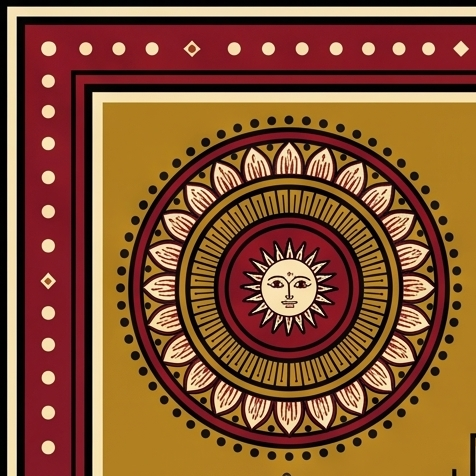
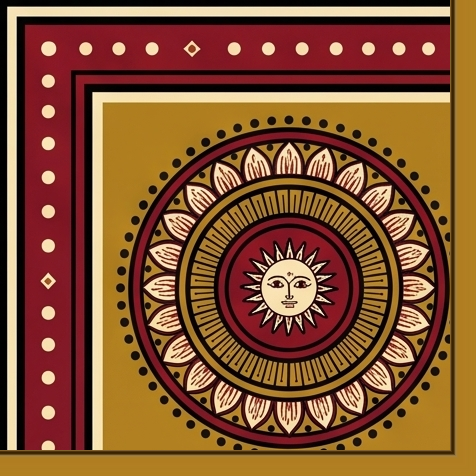
style: standardize stepped-out corner square medallions across all sections

Changed region(s): [[0.0, 0.0, 1.0, 1.0]]

diff --git a/src/components/WeddingHeroSection.jsx b/src/components/WeddingHeroSection.jsx
@@ -577,7 +577,7 @@ export default function WeddingHeroSection() {
         {/* Top Strip */}
         <div
           ref={oldTopRef}
-          className="absolute top-0 left-0 right-0 h-[20px] sm:h-[24px] md:h-[28px] will-change-transform"
+          className="absolute top-0 left-0 right-0 h-[22px] sm:h-[26px] md:h-[30px] will-change-transform"
         >
           <div
             className="w-full h-full"
@@ -592,7 +592,7 @@ export default function WeddingHeroSection() {
         {/* Bottom Strip */}
         <div
           ref={oldBottomRef}
-          className="absolute bottom-0 left-0 right-0 h-[20px] sm:h-[24px] md:h-[28px] will-change-transform"
+          className="absolute bottom-0 left-0 right-0 h-[22px] sm:h-[26px] md:h-[30px] will-change-transform"
         >
           <div
             className="w-full h-full scale-y-[-1]"
@@ -607,7 +607,7 @@ export default function WeddingHeroSection() {
         {/* Left Strip */}
         <div
           ref={oldLeftRef}
-          className="absolute top-0 bottom-0 left-0 w-[20px] sm:w-[24px] md:w-[28px] will-change-transform"
+          className="absolute top-0 bottom-0 left-0 w-[22px] sm:w-[26px] md:w-[30px] will-change-transform"
         >
           <div
             className="w-full h-full"
@@ -622,7 +622,7 @@ export default function WeddingHeroSection() {
         {/* Right Strip */}
         <div
           ref={oldRightRef}
-          className="absolute top-0 bottom-0 right-0 w-[20px] sm:w-[24px] md:w-[28px] will-change-transform"
+          className="absolute top-0 bottom-0 right-0 w-[22px] sm:w-[26px] md:w-[30px] will-change-transform"
         >
           <div
             className="w-full h-full scale-x-[-1]"
@@ -637,7 +637,7 @@ export default function WeddingHeroSection() {
         {/* 4 Corner Lotus Blocks */}
         <div
           ref={oldCornerTLRef}
-          className="absolute top-0 left-0 w-[20px] sm:w-[24px] md:w-[28px] h-[20px] sm:h-[24px] md:h-[28px] z-35 will-change-transform"
+          className="absolute top-0 left-0 w-[24px] sm:w-[28px] md:w-[34px] h-[24px] sm:h-[28px] md:h-[34px] z-35 will-change-transform"
         >
           <img
             src="/assets/madhubani/corner-piece.png"
@@ -647,7 +647,7 @@ export default function WeddingHeroSection() {
         </div>
         <div
           ref={oldCornerTRRef}
-          className="absolute top-0 right-0 w-[20px] sm:w-[24px] md:w-[28px] h-[20px] sm:h-[24px] md:h-[28px] z-35 will-change-transform"
+          className="absolute top-0 right-0 w-[24px] sm:w-[28px] md:w-[34px] h-[24px] sm:h-[28px] md:h-[34px] z-35 will-change-transform"
         >
           <img
             src="/assets/madhubani/corner-piece.png"
@@ -657,7 +657,7 @@ export default function WeddingHeroSection() {
         </div>
         <div
           ref={oldCornerBLRef}
-          className="absolute bottom-0 left-0 w-[20px] sm:w-[24px] md:w-[28px] h-[20px] sm:h-[24px] md:h-[28px] z-35 will-change-transform"
+          className="absolute bottom-0 left-0 w-[24px] sm:w-[28px] md:w-[34px] h-[24px] sm:h-[28px] md:h-[34px] z-35 will-change-transform"
         >
           <img
             src="/assets/madhubani/corner-piece.png"
@@ -667,7 +667,7 @@ export default function WeddingHeroSection() {
         </div>
         <div
           ref={oldCornerBRRef}
-          className="absolute bottom-0 right-0 w-[20px] sm:w-[24px] md:w-[28px] h-[20px] sm:h-[24px] md:h-[28px] z-35 will-change-transform"
+          className="absolute bottom-0 right-0 w-[24px] sm:w-[28px] md:w-[34px] h-[24px] sm:h-[28px] md:h-[34px] z-35 will-change-transform"
         >
           <img
             src="/assets/madhubani/corner-piece.png"
@@ -1490,7 +1490,7 @@ export default function WeddingHeroSection() {
         {/* 4 Corner Medallions */}
         <div
           ref={emeraldCornerTLRef}
-          className="absolute top-0 left-0 w-[22px] sm:w-[26px] md:w-[30px] h-[22px] sm:h-[26px] md:h-[30px] z-50 will-change-transform"
+          className="absolute top-0 left-0 w-[24px] sm:w-[28px] md:w-[34px] h-[24px] sm:h-[28px] md:h-[34px] z-50 will-change-transform"
           style={{ transform: 'translate3d(-135%, -135%, 0)' }}
         >
           <img
@@ -1501,7 +1501,7 @@ export default function WeddingHeroSection() {
         </div>
         <div
           ref={emeraldCornerTRRef}
-          className="absolute top-0 right-0 w-[22px] sm:w-[26px] md:w-[30px] h-[22px] sm:h-[26px] md:h-[30px] z-50 will-change-transform"
+          className="absolute top-0 right-0 w-[24px] sm:w-[28px] md:w-[34px] h-[24px] sm:h-[28px] md:h-[34px] z-50 will-change-transform"
           style={{ transform: 'translate3d(135%, -135%, 0)' }}
         >
           <img
@@ -1512,7 +1512,7 @@ export default function WeddingHeroSection() {
         </div>
         <div
           ref={emeraldCornerBLRef}
-          className="absolute bottom-0 left-0 w-[22px] sm:w-[26px] md:w-[30px] h-[22px] sm:h-[26px] md:h-[30px] z-50 will-change-transform"
+          className="absolute bottom-0 left-0 w-[24px] sm:w-[28px] md:w-[34px] h-[24px] sm:h-[28px] md:h-[34px] z-50 will-change-transform"
           style={{ transform: 'translate3d(-135%, 135%, 0)' }}
         >
           <img
@@ -1523,7 +1523,7 @@ export default function WeddingHeroSection() {
         </div>
         <div
           ref={emeraldCornerBRRef}
-          className="absolute bottom-0 right-0 w-[22px] sm:w-[26px] md:w-[30px] h-[22px] sm:h-[26px] md:h-[30px] z-50 will-change-transform"
+          className="absolute bottom-0 right-0 w-[24px] sm:w-[28px] md:w-[34px] h-[24px] sm:h-[28px] md:h-[34px] z-50 will-change-transform"
           style={{ transform: 'translate3d(135%, 135%, 0)' }}
         >
           <img

diff --git a/src/components/MainEvents.jsx b/src/components/MainEvents.jsx
@@ -192,7 +192,7 @@ export default function MainEvents() {
       {/* 4 Corner Sun Medallions */}
       <div
         ref={cornerTLRef}
-        className="absolute top-0 left-0 w-[22px] sm:w-[26px] md:w-[30px] h-[22px] sm:h-[26px] md:h-[30px] z-40 pointer-events-none will-change-transform"
+        className="absolute top-0 left-0 w-[24px] sm:w-[28px] md:w-[34px] h-[24px] sm:h-[28px] md:h-[34px] z-40 pointer-events-none will-change-transform"
         style={{ transform: 'translate3d(-135%, -135%, 0)' }}
       >
         <img
@@ -203,7 +203,7 @@ export default function MainEvents() {
       </div>
       <div
         ref={cornerTRRef}
-        className="absolute top-0 right-0 w-[22px] sm:w-[26px] md:w-[30px] h-[22px] sm:h-[26px] md:h-[30px] z-40 pointer-events-none will-change-transform"
+        className="absolute top-0 right-0 w-[24px] sm:w-[28px] md:w-[34px] h-[24px] sm:h-[28px] md:h-[34px] z-40 pointer-events-none will-change-transform"
         style={{ transform: 'translate3d(135%, -135%, 0)' }}
       >
         <img
@@ -214,7 +214,7 @@ export default function MainEvents() {
       </div>
       <div
         ref={cornerBLRef}
-        className="absolute bottom-0 left-0 w-[22px] sm:w-[26px] md:w-[30px] h-[22px] sm:h-[26px] md:h-[30px] z-40 pointer-events-none will-change-transform"
+        className="absolute bottom-0 left-0 w-[24px] sm:w-[28px] md:w-[34px] h-[24px] sm:h-[28px] md:h-[34px] z-40 pointer-events-none will-change-transform"
         style={{ transform: 'translate3d(-135%, 135%, 0)' }}
       >
         <img
@@ -225,7 +225,7 @@ export default function MainEvents() {
       </div>
       <div
         ref={cornerBRRef}
-        className="absolute bottom-0 right-0 w-[22px] sm:w-[26px] md:w-[30px] h-[22px] sm:h-[26px] md:h-[30px] z-40 pointer-events-none will-change-transform"
+        className="absolute bottom-0 right-0 w-[24px] sm:w-[28px] md:w-[34px] h-[24px] sm:h-[28px] md:h-[34px] z-40 pointer-events-none will-change-transform"
         style={{ transform: 'translate3d(135%, 135%, 0)' }}
       >
         <img

diff --git a/src/components/MeetCouple.jsx b/src/components/MeetCouple.jsx
@@ -411,7 +411,7 @@ export default function MeetCouple({
       {/* 4 Corner Medallions */}
       <div 
         ref={cornerTLRef}
-        className="absolute top-0 left-0 w-[22px] sm:w-[26px] md:w-[30px] h-[22px] sm:h-[26px] md:h-[30px] z-40 pointer-events-none will-change-transform"
+        className="absolute top-0 left-0 w-[24px] sm:w-[28px] md:w-[34px] h-[24px] sm:h-[28px] md:h-[34px] z-40 pointer-events-none will-change-transform"
         style={{ transform: 'translate3d(-135%, -135%, 0)' }}
       >
         <img
@@ -422,7 +422,7 @@ export default function MeetCouple({
       </div>
       <div 
         ref={cornerTRRef}
-        className="absolute top-0 right-0 w-[22px] sm:w-[26px] md:w-[30px] h-[22px] sm:h-[26px] md:h-[30px] z-40 pointer-events-none will-change-transform"
+        className="absolute top-0 right-0 w-[24px] sm:w-[28px] md:w-[34px] h-[24px] sm:h-[28px] md:h-[34px] z-40 pointer-events-none will-change-transform"
         style={{ transform: 'translate3d(135%, -135%, 0)' }}
       >
         <img
@@ -433,7 +433,7 @@ export default function MeetCouple({
       </div>
       <div 
         ref={cornerBLRef}
-        className="absolute bottom-0 left-0 w-[22px] sm:w-[26px] md:w-[30px] h-[22px] sm:h-[26px] md:h-[30px] z-40 pointer-events-none will-change-transform"
+        className="absolute bottom-0 left-0 w-[24px] sm:w-[28px] md:w-[34px] h-[24px] sm:h-[28px] md:h-[34px] z-40 pointer-events-none will-change-transform"
         style={{ transform: 'translate3d(-135%, 135%, 0)' }}
       >
         <img
@@ -444,7 +444,7 @@ export default function MeetCouple({
       </div>
       <div 
         ref={cornerBRRef}
-        className="absolute bottom-0 right-0 w-[22px] sm:w-[26px] md:w-[30px] h-[22px] sm:h-[26px] md:h-[30px] z-40 pointer-events-none will-change-transform"
+        className="absolute bottom-0 right-0 w-[24px] sm:w-[28px] md:w-[34px] h-[24px] sm:h-[28px] md:h-[34px] z-40 pointer-events-none will-change-transform"
         style={{ transform: 'translate3d(135%, 135%, 0)' }}
       >
         <img
